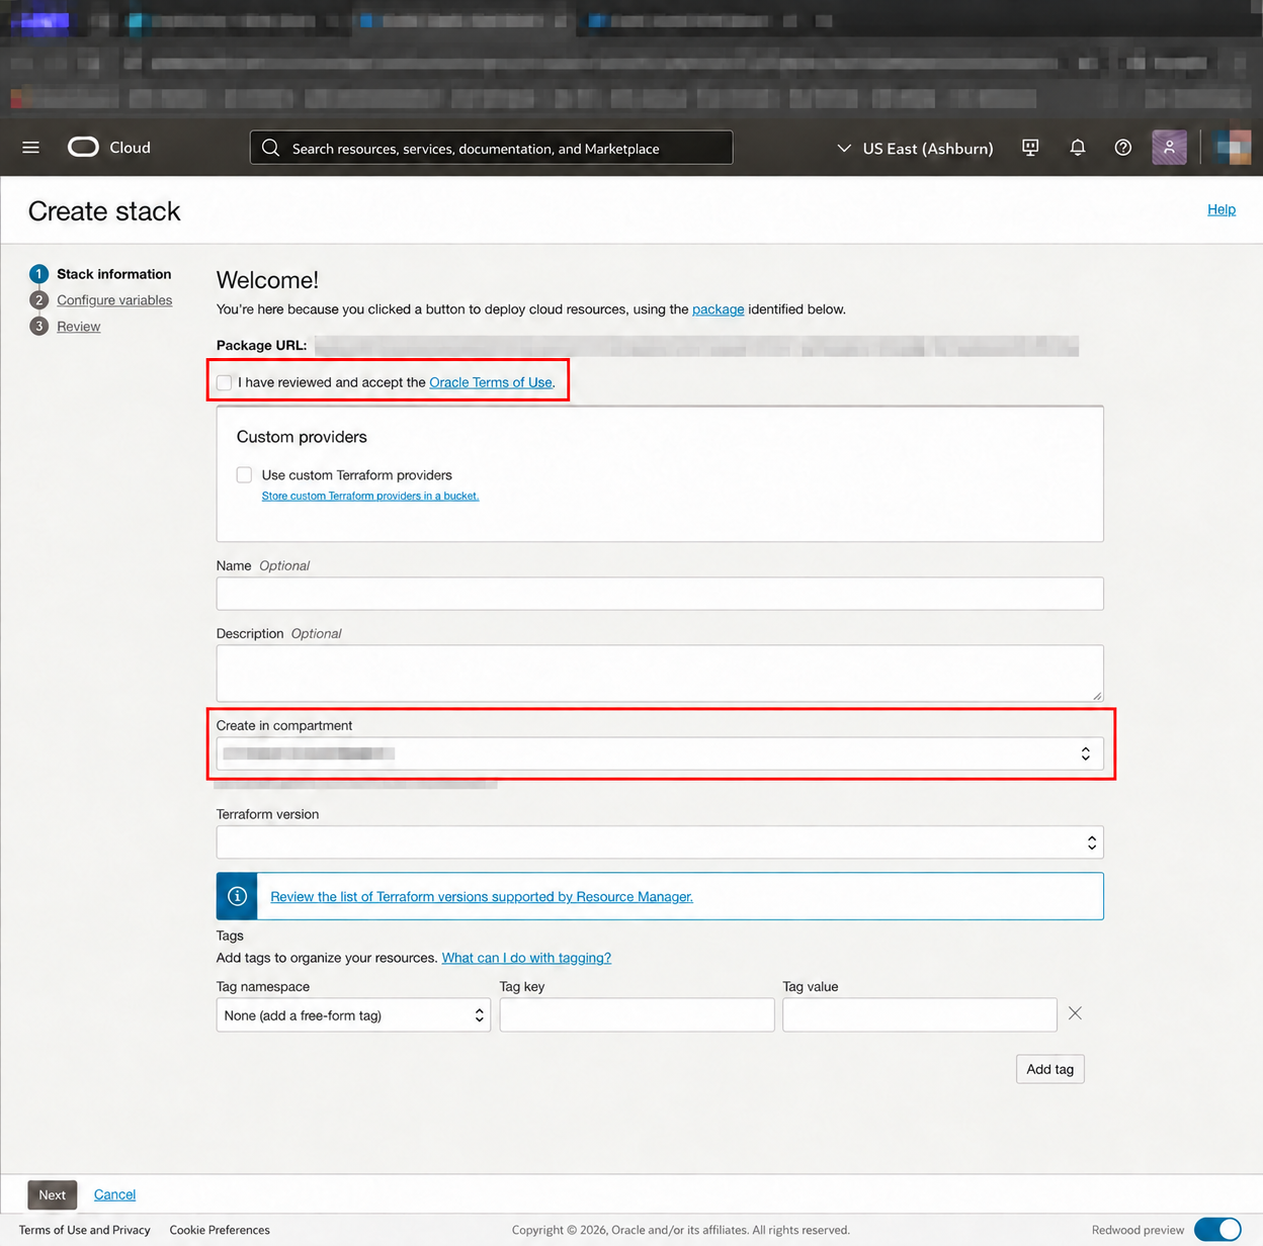
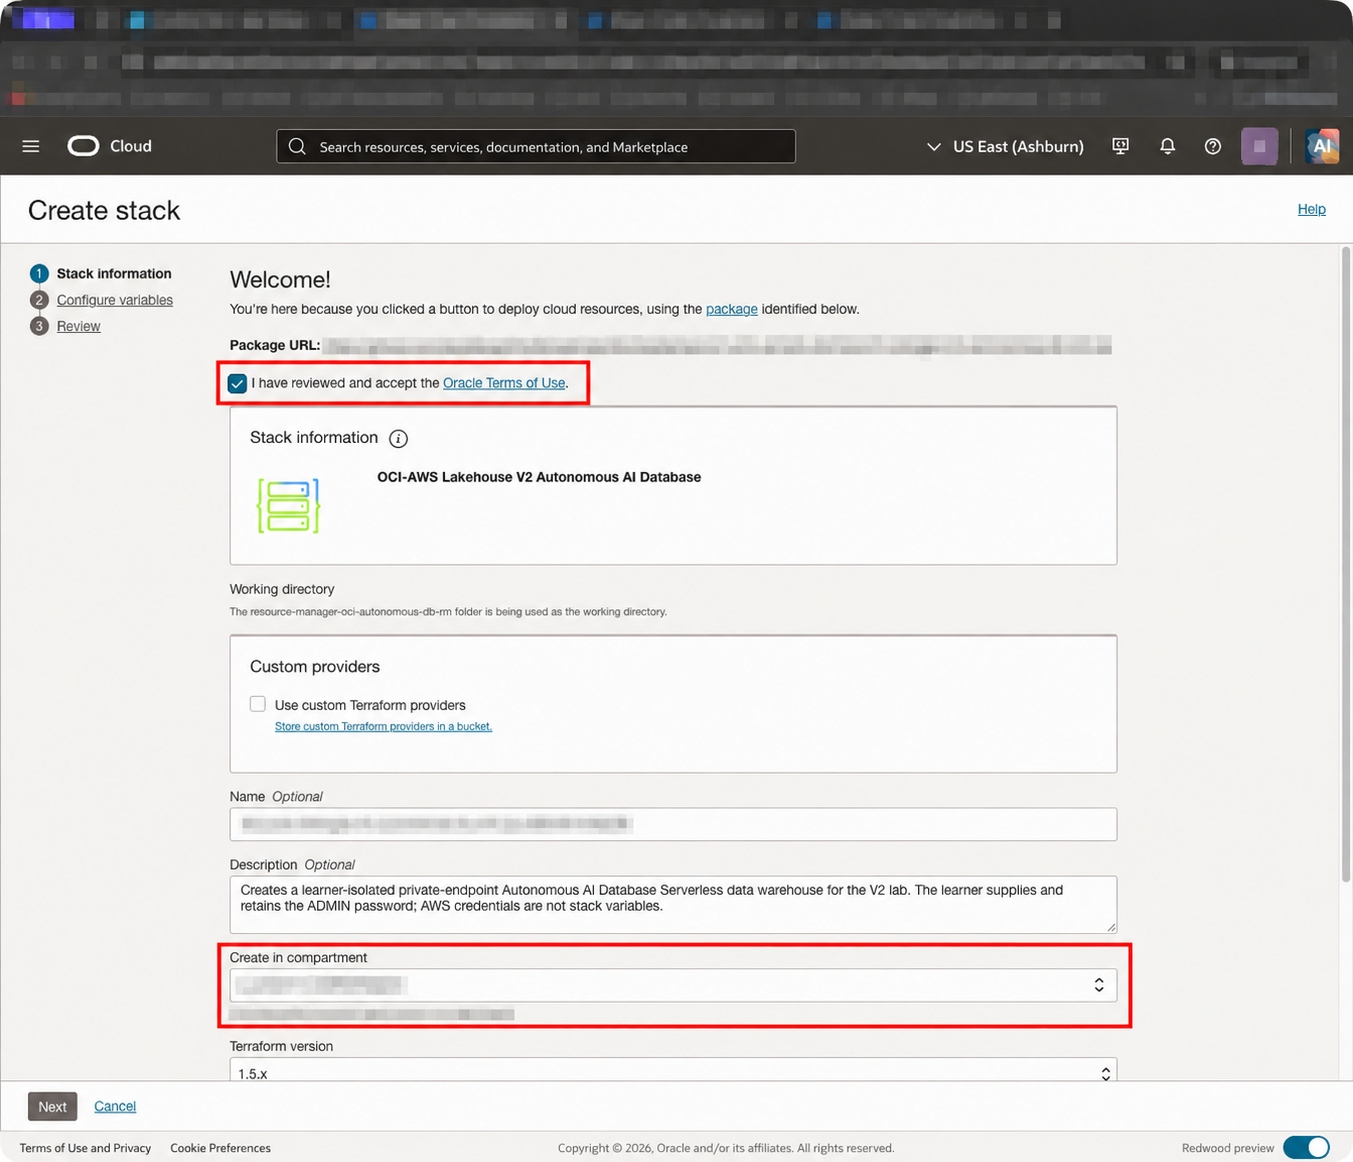
Updates

diff --git a/oci_aws_private_s3/create-autonomous-ai-lakehouse/create_autonomous_ai_lakehouse.md b/oci_aws_private_s3/create-autonomous-ai-lakehouse/create_autonomous_ai_lakehouse.md
@@ -8,15 +8,15 @@ Estimated Time: 15 minutes
 
 ## Task 1: Create and apply the Autonomous AI Lakehouse stack
 
-1. Select **Deploy to Oracle Cloud** to open Resource Manager with the Autonomous AI Lakehouse stack configuration loaded.
+1. Select **Deploy to Oracle Cloud** to open Resource Manager.
 
     <a class="tryit-button" href="https://cloud.oracle.com/resourcemanager/stacks/create?region=us-ashburn-1&amp;zipUrl=https%3A%2F%2Fgithub.com%2Fdavidastart%2Fmulticloud%2Fraw%2Frefs%2Fheads%2Fmain%2Foci_aws_private_s3%2Fresource-manager-oci-autonomous-db-rm.zip" target="_blank" rel="noopener noreferrer" style="display: inline-block; width: auto;">Deploy to Oracle Cloud</a>
 
-2. On **Stack information**, select the **I have reviewed and accept the Oracle Terms of Use** checkbox.
+2. On **Stack information**, select the **I have reviewed and accept the Oracle Terms of Use** checkbox. Wait for the stack title and description to appear.
 
     ![Oracle Terms of Use checkbox and Create in compartment selector outlined in red; identifying information is blurred.](images/resource-manager-terms.png)
 
-3. Under **Create in compartment**, select your assigned lab compartment, then select **Next**.
+3. Under **Create in compartment**, confirm that your assigned lab compartment is selected, then select **Next**.
 
 4. On the **Configure variables** page, update the following values. The `Lab compartment`, `Autonomous Database VCN`, `Autonomous Database subnet`, and `Autonomous Database NSG` fields are selectors: choose the resources by name from their drop-down lists rather than pasting OCIDs.
 

diff --git a/oci_aws_private_s3/verify-oci-lab-environment/verify_oci_lab_environment.md b/oci_aws_private_s3/verify-oci-lab-environment/verify_oci_lab_environment.md
@@ -8,15 +8,15 @@ Estimated Time: 20 minutes
 
 ## Task 1: Create and deploy the OCI network stack
 
-1. Select **Deploy to Oracle Cloud** to open Resource Manager with the OCI network stack configuration loaded.
+1. Select **Deploy to Oracle Cloud** to open Resource Manager.
 
     <a class="tryit-button" href="https://cloud.oracle.com/resourcemanager/stacks/create?region=us-ashburn-1&amp;zipUrl=https%3A%2F%2Fgithub.com%2Fdavidastart%2Fmulticloud%2Fraw%2Frefs%2Fheads%2Fmain%2Foci_aws_private_s3%2Fresource-manager-oci-network-rm.zip" target="_blank" rel="noopener noreferrer" style="display: inline-block; width: auto;">Deploy to Oracle Cloud</a>
 
-2. On **Stack information**, select the **I have reviewed and accept the Oracle Terms of Use** checkbox.
+2. On **Stack information**, select the **I have reviewed and accept the Oracle Terms of Use** checkbox. Wait for the stack title and description to appear.
 
     ![Oracle Terms of Use checkbox and Create in compartment selector outlined in red; identifying information is blurred.](images/resource-manager-terms.png)
 
-3. Under **Create in compartment**, select your assigned lab compartment, then select **Next**.
+3. Under **Create in compartment**, confirm that your assigned lab compartment is selected, then select **Next**.
 
 4. On the **Configure variables** page, enter the values supplied for you in the LiveLabs portal by the lab administrator. Use your assigned values rather than values from another learner.
 

diff --git a/oci_aws_private_s3/oci-event-account/oci_event_account.md b/oci_aws_private_s3/oci-event-account/oci_event_account.md
@@ -17,8 +17,16 @@ Estimated Time: 5 minutes
 
     ![OCI Region selection](images/ociregionselection.png "OCI Region selection")
 
-4. Open the compartment selector and select your assigned learner compartment. Do not select the tenancy/root compartment.
+4. Open the **Navigation menu (☰)** and select **Networking → Virtual cloud networks**. Under **Applied filters**, open **Compartment** and select your assigned learner compartment. Find its name under **View Login Info** in LiveLabs. Do not select the tenancy/root compartment.
+
+    ![Select the assigned learner compartment on Virtual cloud networks; identifying information is blurred and the controls are outlined in red.](images/oci-compartment-selection.png)
+
+5. Verify that the network list shows **No items to display**. This confirms that no virtual cloud network exists in your selected compartment before you deploy the network stack.
+
+    ![The Virtual cloud networks list is empty in the selected learner compartment; identifying information is blurred and the filter and empty result are outlined in red.](images/verify-no-lab-network.png)
+
+    Keep this Console tab open while you continue the lab. If you close and reopen your incognito/private window, repeat steps 4 and 5.
 
 ## Summary
 
-You are working in the correct OCI Region and learner compartment.
+You are working in the correct OCI Region and learner compartment and have confirmed that the network has not been created yet.
